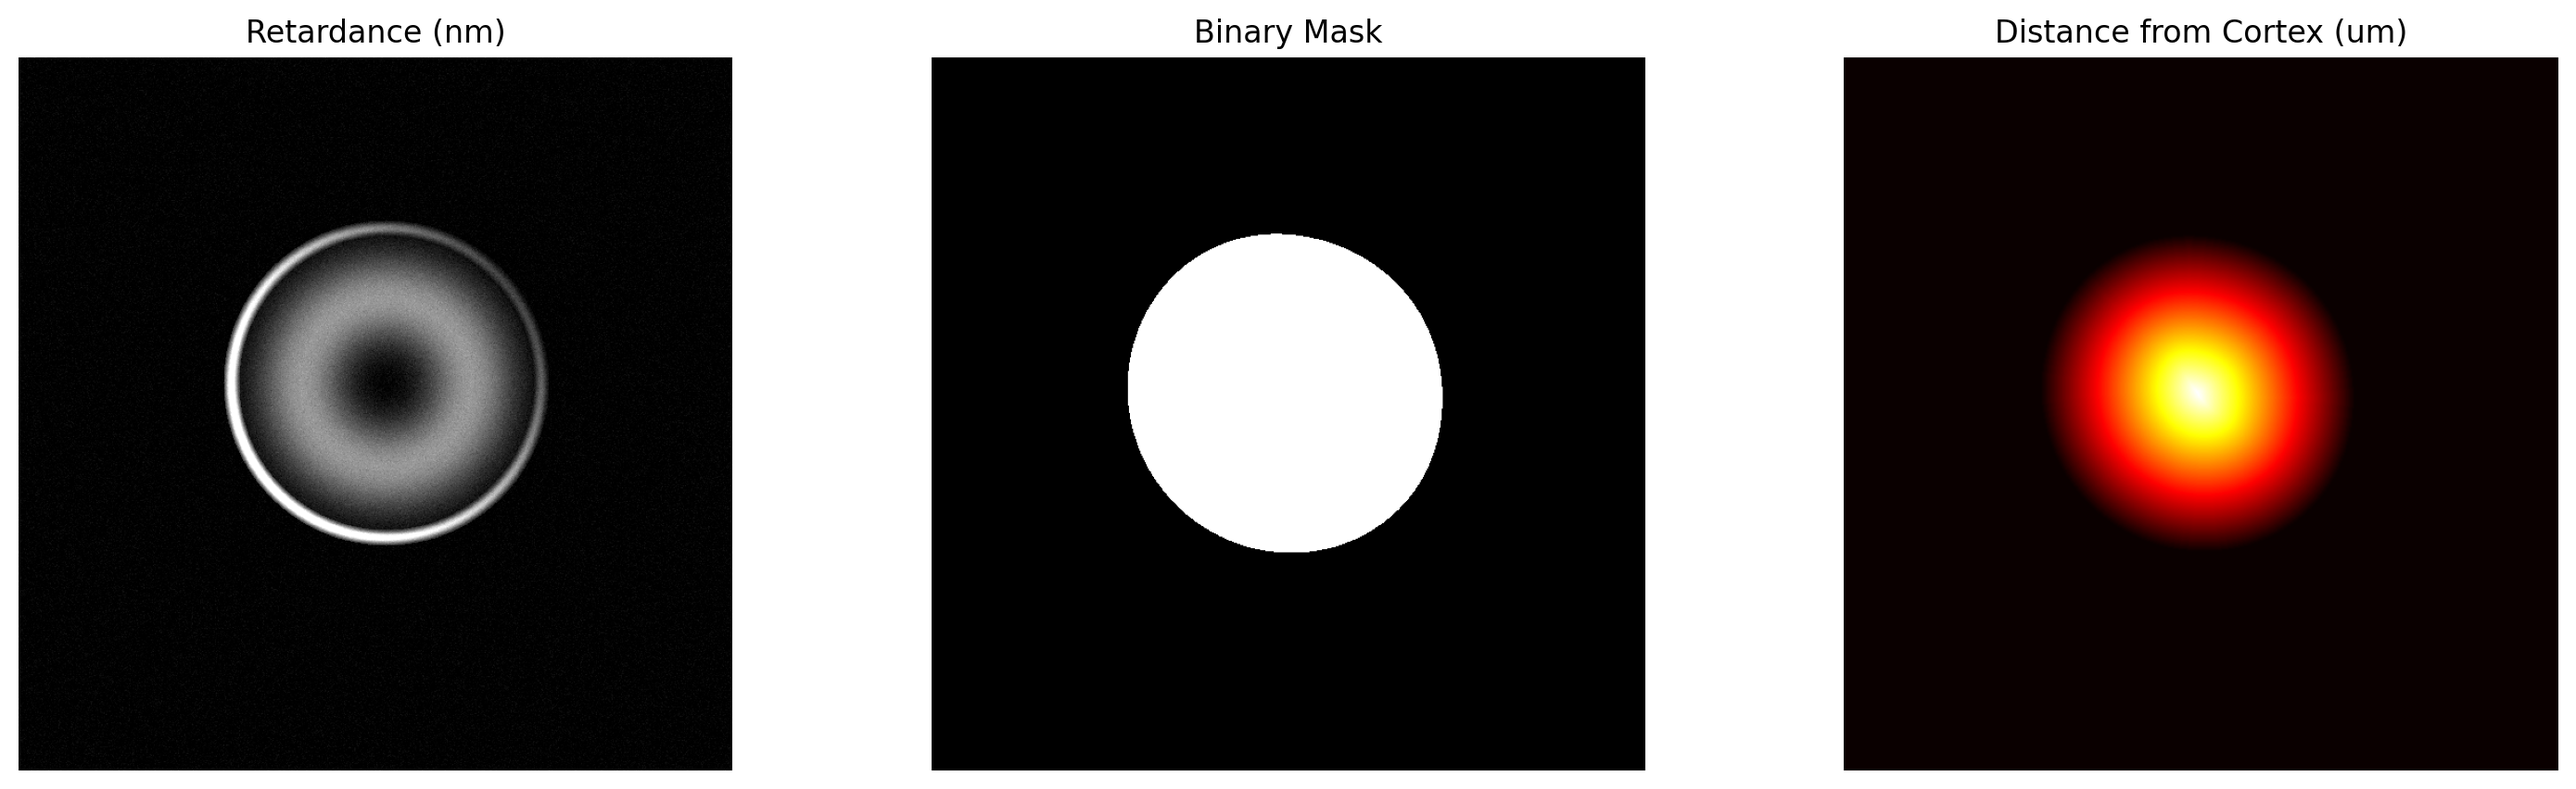
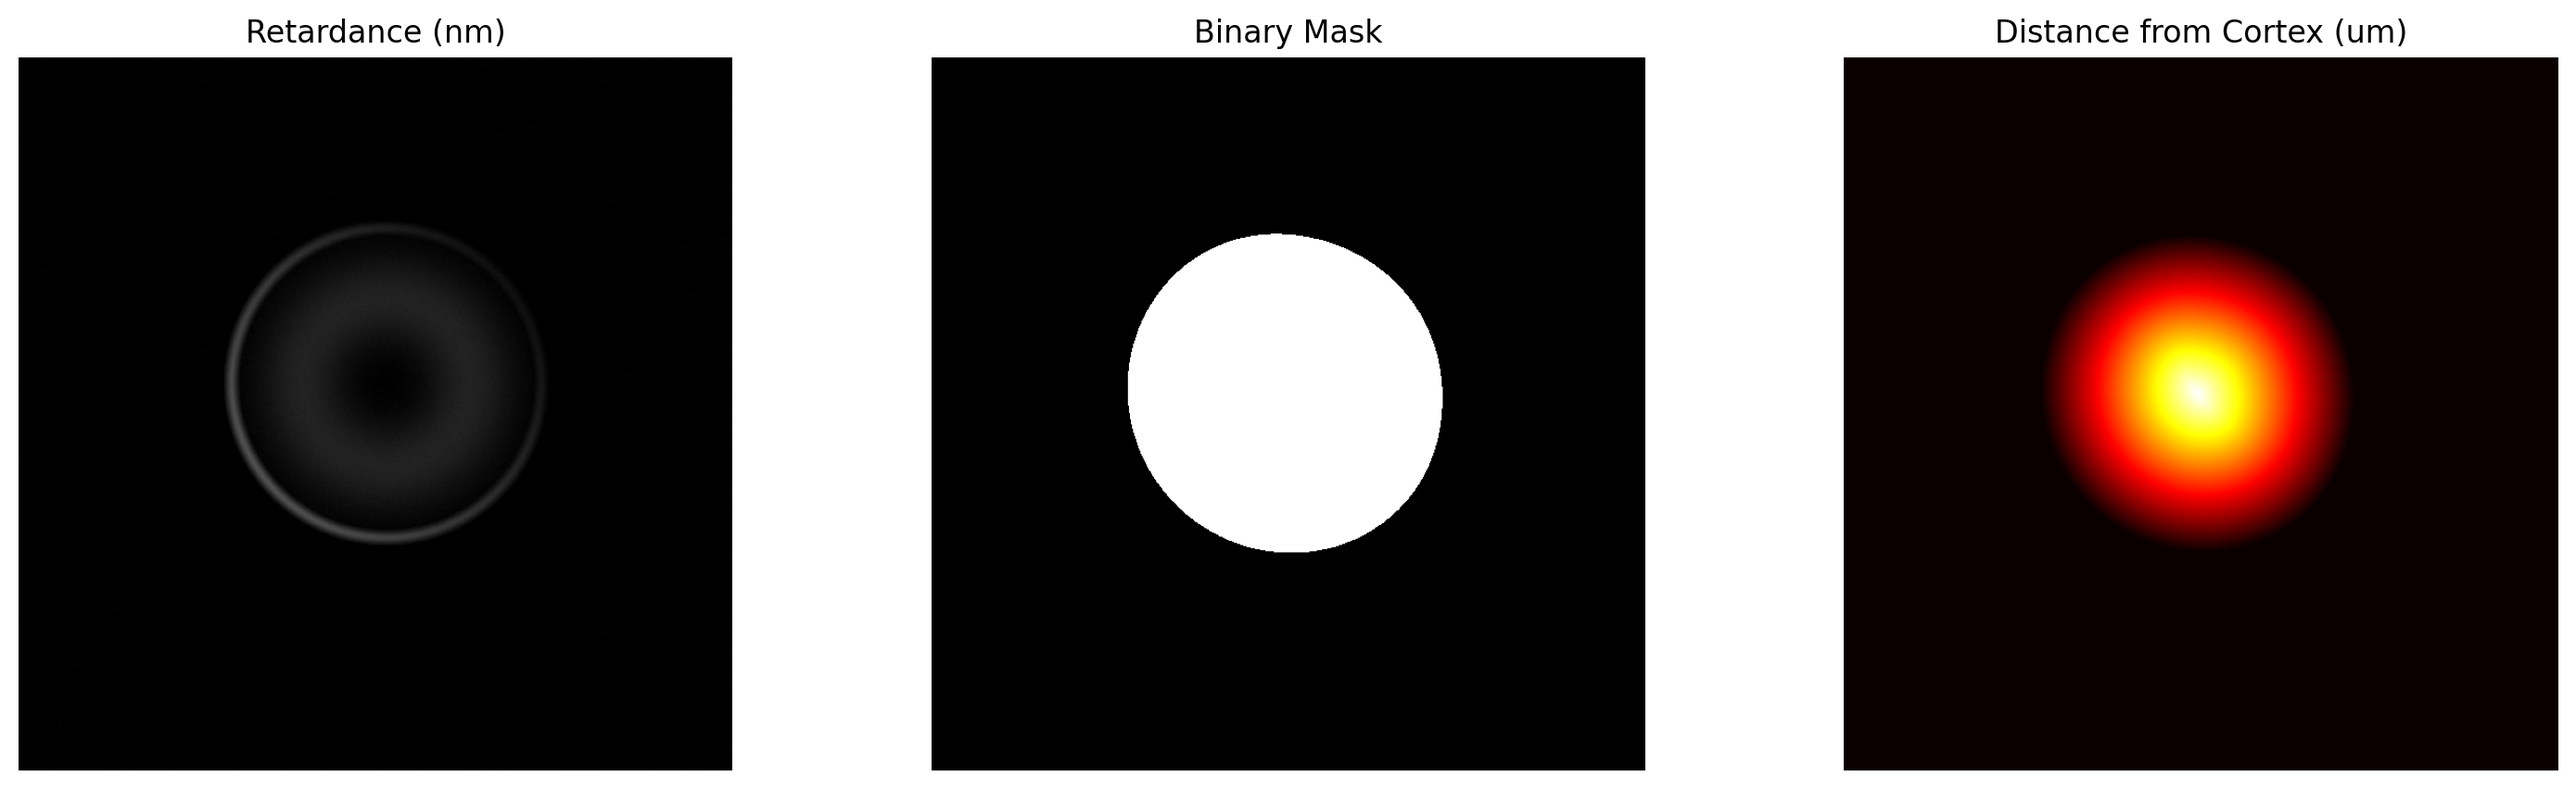
Increase display threshold to full retardance ceiling (50 nm)
Interior bright spots are suppressed so only the cortex ring
stands out in the overlay visualization.

https://claude.ai/code/session_017d91aRJmUyiPaKkQZftgHM

Changed region(s): [[0.0619, 0.2746, 0.2166, 0.7019]]

diff --git a/run_single_image.py b/run_single_image.py
@@ -299,8 +299,8 @@ def run_analysis(image_path, out_dir=None):
 
     # --- Plot 1: Overlay ---
     fig, ax = plt.subplots(1, 1, figsize=(10, 8))
-    vmax = np.percentile(Iret[Iret > 0], 99) if np.any(Iret > 0) else Iret.max()
-    im = ax.imshow(Iret, cmap='gray', vmin=0, vmax=max(vmax, 0.01),
+    vmax = retardance_ceiling_nm
+    im = ax.imshow(Iret, cmap='gray', vmin=0, vmax=vmax,
                    origin='upper', extent=[0, W, H, 0], aspect='equal')
     ax.plot(xb_s, yb_s, 'r-', linewidth=0.8, label='Boundary (shrunk)')
     ax.plot(np.append(polyX, polyX[0]), np.append(polyY, polyY[0]),
@@ -386,7 +386,7 @@ def run_analysis(image_path, out_dir=None):
 
     # --- Plot 7: Mask and distance transform visualization ---
     fig, axes = plt.subplots(1, 3, figsize=(18, 5))
-    axes[0].imshow(Iret, cmap='gray', vmin=0, vmax=max(vmax, 0.01))
+    axes[0].imshow(Iret, cmap='gray', vmin=0, vmax=retardance_ceiling_nm)
     axes[0].set_title('Retardance (nm)')
     axes[1].imshow(BW, cmap='gray')
     axes[1].set_title('Binary Mask')
